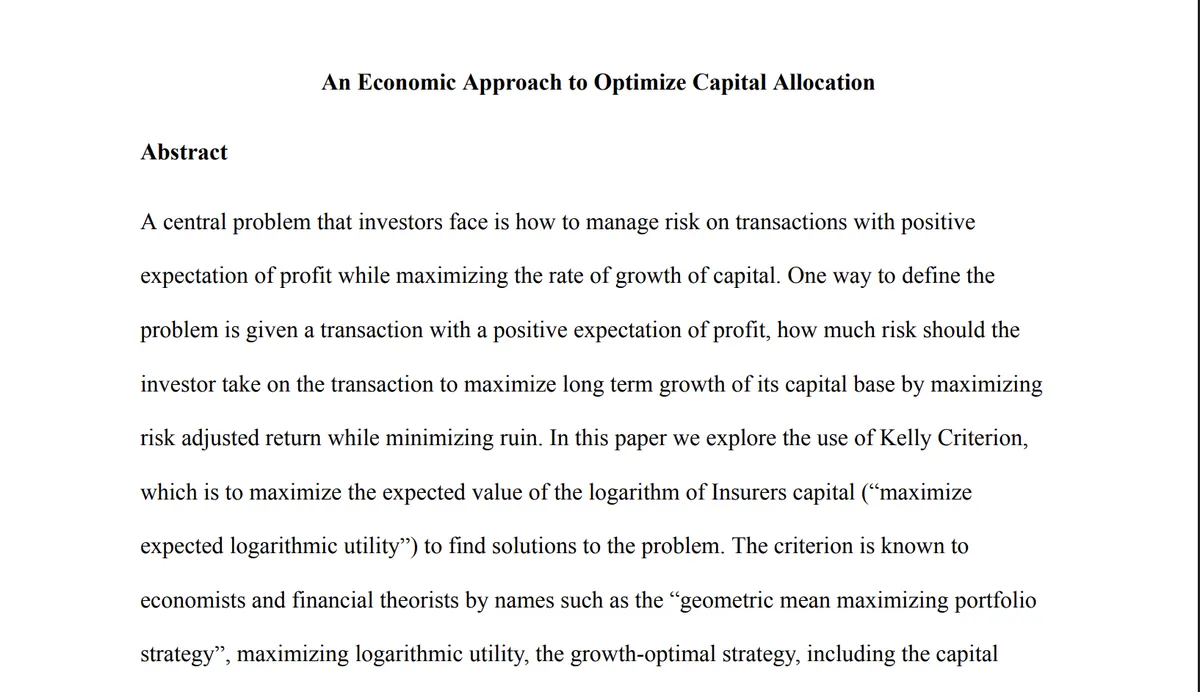
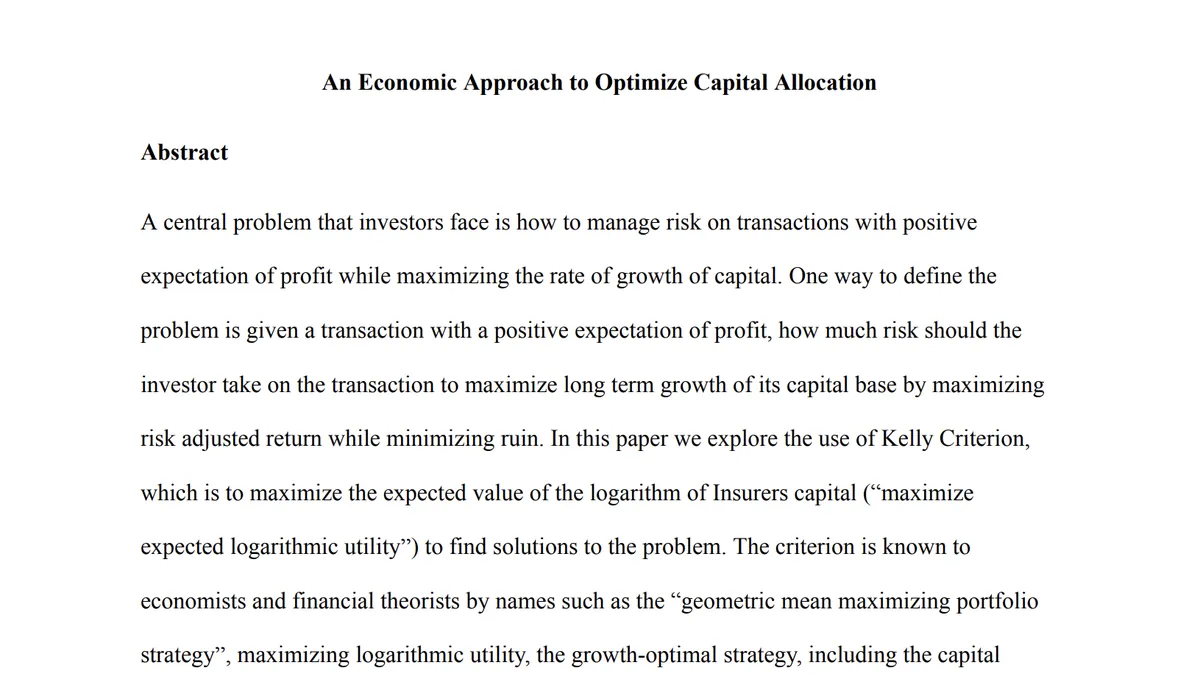
Research and education v2 done; sharper paper thumbnails; quieter Reveal
- Use the hedging paper's own first page as its thumbnail instead of a
  low-res stock diagram, and trim a dark edge baked into the capital
  allocation image.
- Reveal reads prefers-reduced-motion through useMediaQuery, avoiding
  motion's dev-only warning for reduced-motion visitors.

Claude-Session: https://claude.ai/code/session_01C8ncdmYemLU9Xsh9WoL7T3

diff --git a/Ashif/src/components/projects/useProjectViewer.js b/Ashif/src/components/projects/useProjectViewer.js
@@ -1,0 +1,144 @@
+import { useCallback, useEffect, useLayoutEffect, useRef, useState } from 'react';
+import { useReducedMotion } from 'motion/react';
+import { projects } from '@/data/portfolioData';
+import { featuredProjects, findProject, projectHash, slugFromHash } from './projectData';
+import { findTrigger, revealCard, revealElement } from './viewerDom';
+
+const stripHash = () => window.location.pathname + window.location.search;
+
+/**
+ * State for the project viewer, kept in sync with `#project/<slug>`.
+ *
+ * `viewer` is `{ list, index, origin, paired, fromHover, dir, step }` or null:
+ * - list/index: the projects prev/next browse through, and the current one.
+ * - origin: 'featured' (a featured card), 'archive' (a table row), or 'link'
+ *   (opened from the URL). Only featured opens fly the image (`paired`).
+ * `dialogOpen` stays true until the closing animation has finished.
+ *
+ * Opening from the page pushes a history entry, so Back closes the viewer.
+ */
+export function useProjectViewer() {
+  const reduceMotion = useReducedMotion();
+  const [viewer, setViewer] = useState(null);
+  const [dialogOpen, setDialogOpen] = useState(false);
+
+  const viewerRef = useRef(null);
+  const reduceRef = useRef(reduceMotion);
+  const openerRef = useRef(null);
+  const returnFocusRef = useRef(null);
+  // We pushed the current #project entry, so closing should step back over it.
+  const pushedRef = useRef(false);
+  // scrollRestoration to put back once our history.back() has landed.
+  const restoreRef = useRef(null);
+
+  useLayoutEffect(() => {
+    viewerRef.current = viewer;
+    reduceRef.current = reduceMotion;
+  });
+
+  const open = useCallback((list, index, origin, { opener = null, fromHover = false } = {}) => {
+    const project = list[index];
+    if (!project) return;
+    openerRef.current = opener;
+
+    if (origin === 'link') {
+      // Put the page where this project lives, behind the viewer, so closing lands there.
+      if (project.featured) revealCard(project.slug);
+      else revealElement(document.getElementById('projects-archive'));
+    } else {
+      window.history.pushState(window.history.state, '', projectHash(project.slug));
+      pushedRef.current = true;
+    }
+
+    const paired = origin === 'featured' && !reduceRef.current;
+    setViewer({ list, index, origin, paired, fromHover, dir: 1, step: 0 });
+    setDialogOpen(true);
+  }, []);
+
+  const openLink = useCallback(
+    (slug) => {
+      const project = findProject(slug);
+      const list = project.featured ? featuredProjects : projects;
+      open(list, list.indexOf(project), 'link');
+    },
+    [open]
+  );
+
+  const goTo = useCallback((index, dir) => {
+    const current = viewerRef.current;
+    if (!current || index === current.index) return;
+    window.history.replaceState(window.history.state, '', projectHash(current.list[index].slug));
+    setViewer({ ...current, index, dir, step: current.step + 1 });
+  }, []);
+
+  const navigate = useCallback(
+    (delta) => {
+      const current = viewerRef.current;
+      if (!current || current.list.length < 2) return;
+      const count = current.list.length;
+      goTo((current.index + delta + count) % count, delta > 0 ? 1 : -1);
+    },
+    [goTo]
+  );
+
+  /** `fromHistory`: the URL already moved on (Back button), so leave history alone. */
+  const close = useCallback((fromHistory = false) => {
+    const current = viewerRef.current;
+    if (!current) return;
+    const { slug, featured } = current.list[current.index];
+
+    // Bring the card into view first so the image has somewhere visible to land.
+    if (current.paired) revealCard(slug);
+    returnFocusRef.current =
+      current.origin === 'archive'
+        ? openerRef.current
+        : (findTrigger(featured ? 'card' : 'row', slug) ?? openerRef.current);
+
+    if (!fromHistory) {
+      if (pushedRef.current) {
+        // Step back over our entry. Manual restoration stops the browser from
+        // scrolling to where the page was when the entry was pushed.
+        restoreRef.current = window.history.scrollRestoration;
+        window.history.scrollRestoration = 'manual';
+        window.history.back();
+      } else if (slugFromHash(window.location.hash)) {
+        window.history.replaceState(window.history.state, '', stripHash());
+      }
+    }
+    pushedRef.current = false;
+    setViewer(null);
+  }, []);
+
+  const onExited = useCallback(() => setDialogOpen(false), []);
+
+  // Open a project named in the URL on first load, before the first paint.
+  useLayoutEffect(() => {
+    const slug = slugFromHash(window.location.hash);
+    if (slug) openLink(slug);
+  }, [openLink]);
+
+  useEffect(() => {
+    const onHashChange = () => {
+      if (restoreRef.current) {
+        window.history.scrollRestoration = restoreRef.current;
+        restoreRef.current = null;
+      }
+      const slug = slugFromHash(window.location.hash);
+      const current = viewerRef.current;
+      if (!slug) {
+        if (current) close(true);
+        return;
+      }
+      if (!current) {
+        openLink(slug);
+        return;
+      }
+      const index = current.list.findIndex((p) => p.slug === slug);
+      if (index >= 0) goTo(index, index > current.index ? 1 : -1);
+    };
+    window.addEventListener('hashchange', onHashChange);
+    return () => window.removeEventListener('hashchange', onHashChange);
+  }, [close, goTo, openLink]);
+
+  return { viewer, dialogOpen, open, navigate, close, onExited, returnFocusRef };
+}

diff --git a/Ashif/src/components/projects/viewerDom.js b/Ashif/src/components/projects/viewerDom.js
@@ -1,0 +1,58 @@
+// Small DOM helpers for the project viewer.
+
+/** True on devices with a real hover pointer (mouse or trackpad). */
+export const canHover = () => window.matchMedia('(hover: hover) and (pointer: fine)').matches;
+
+/**
+ * Locks page scroll while the viewer is open and returns the unlock function.
+ * The scrollbar's gutter is kept so nothing on the page shifts sideways.
+ */
+export function lockScroll() {
+  const html = document.documentElement;
+  const previous = { overflow: html.style.overflow, gutter: html.style.scrollbarGutter };
+  if (window.innerWidth > html.clientWidth) html.style.scrollbarGutter = 'stable';
+  html.style.overflow = 'hidden';
+  return () => {
+    html.style.overflow = previous.overflow;
+    html.style.scrollbarGutter = previous.gutter;
+  };
+}
+
+/** The button that opens a project: `kind` is 'card' (featured) or 'row' (archive). */
+export const findTrigger = (kind, slug) =>
+  document.querySelector(`[data-project-trigger="${kind}:${slug}"]`);
+
+// Leaves room for the fixed navbar when deciding what counts as visible.
+const TOP_INSET = 80;
+
+/**
+ * Scrolls a featured card's image fully into view, instantly. Used while the
+ * viewer covers the page, so the image can fly back to a card the reader can see.
+ */
+export function revealCard(slug) {
+  const media = document.querySelector(`[data-project-card="${slug}"] [data-project-media]`);
+  if (!media) return;
+  const rect = media.getBoundingClientRect();
+  const viewport = window.innerHeight;
+  if (rect.top >= TOP_INSET && rect.bottom <= viewport) return;
+  const offset = Math.max(TOP_INSET, (viewport - rect.height) / 2);
+  window.scrollTo({ top: window.scrollY + rect.top - offset, behavior: 'instant' });
+}
+
+/** Scrolls an element's top just below the navbar, instantly. */
+export function revealElement(element) {
+  if (!element) return;
+  const top = window.scrollY + element.getBoundingClientRect().top - TOP_INSET;
+  window.scrollTo({ top, behavior: 'instant' });
+}
+
+const preloaded = new Set();
+
+/** Starts loading an image so it is decoded by the time it is shown. */
+export function preloadImage(src) {
+  if (!src || preloaded.has(src)) return;
+  preloaded.add(src);
+  const img = new Image();
+  img.decoding = 'async';
+  img.src = src;
+}

diff --git a/Ashif/src/components/contact/ContactForm.jsx b/Ashif/src/components/contact/ContactForm.jsx
@@ -20,7 +20,8 @@ const IS_MAC =
 const inputClass = cn(
   'block w-full rounded-lg border border-line-strong bg-surface px-3.5 text-base text-fg',
   'transition-[border-color,box-shadow] duration-150 ease-out placeholder:text-subtle',
-  'hover:border-fg/30 focus-visible:outline-hidden focus:border-accent focus:ring-3 focus:ring-accent/25',
+  // accent-strong keeps the focused border at 3:1+ on paper; the soft ring carries the brand orange.
+  'hover:border-fg/30 focus-visible:outline-hidden focus:border-accent-strong focus:ring-3 focus:ring-accent/25',
   'aria-[invalid=true]:border-accent-strong',
   // Keep browser autofill from painting its own background over the theme.
   'autofill:inset-shadow-[0_0_0_100px_var(--surface)] autofill:[-webkit-text-fill-color:var(--fg)]'
@@ -195,7 +196,14 @@ export default function ContactForm() {
         </MotionDiv>
       ) : (
         <MotionDiv key="form" {...swap} transition={{ duration: 0.2, ease: EASE }}>
-          <form noValidate onSubmit={handleSubmit} aria-label="Send a message" aria-busy={sending}>
+          <form
+            action={formspreeUrl}
+            method="POST"
+            noValidate
+            onSubmit={handleSubmit}
+            aria-label="Send a message"
+            aria-busy={sending}
+          >
             <div className="grid gap-x-5 sm:grid-cols-2 lg:grid-cols-1">
               <Field id={fieldId('name')} label="Name" error={errors.name}>
                 <input

diff --git a/Ashif/src/components/primitives/Reveal.jsx b/Ashif/src/components/primitives/Reveal.jsx
@@ -1,4 +1,5 @@
-import { motion, useReducedMotion } from 'motion/react';
+import { motion } from 'motion/react';
+import useMediaQuery from '@/hooks/useMediaQuery';
 
 const EASE = [0.16, 1, 0.3, 1];
 
@@ -15,7 +16,9 @@ export default function Reveal({
   children,
   ...rest
 }) {
-  const reduceMotion = useReducedMotion();
+  // Our own media query instead of motion's useReducedMotion, which logs a
+  // dev warning for every reduced-motion visitor.
+  const reduceMotion = useMediaQuery('(prefers-reduced-motion: reduce)');
   const Component = motion[as] ?? motion.div;
 
   if (reduceMotion) {

diff --git a/Ashif/src/components/nav/Navbar.jsx b/Ashif/src/components/nav/Navbar.jsx
@@ -72,7 +72,7 @@ export default function Navbar() {
           <div className={cn(BAR_ROW, 'lg:grid lg:grid-cols-[1fr_auto_1fr]')}>
             <Wordmark onClick={onAnchorClick('top')} className="justify-self-start" />
 
-            <nav aria-label="Sections" className="hidden h-full lg:block">
+            <nav aria-label="Primary" className="hidden h-full lg:block">
               <ul className="flex h-full items-center">
                 {sections.map((section) => {
                   const isActive = active === section.id;

diff --git a/Ashif/src/components/nav/MobileMenu.jsx b/Ashif/src/components/nav/MobileMenu.jsx
@@ -131,7 +131,7 @@ function Sheet({ sheetRef, closeRef, active, onClose, onSectionClick, onLeave, o
         </div>
       </div>
 
-      <nav aria-label="Sections" className="container-page shrink-0 pt-5">
+      <nav aria-label="Mobile" className="container-page shrink-0 pt-5">
         <ul className="border-t border-line">
           {sections.map((section, i) => {
             const isActive = active === section.id;
